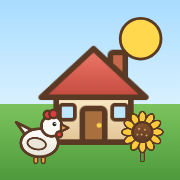
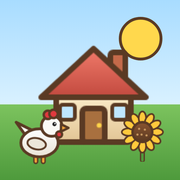
Иконки для iPad: отдельные размеры 152/167 и сброс кэша иконок
Claude-Session: https://claude.ai/code/session_01R1gfs5sStHDwcmxpvg4hZD

diff --git a/index.html b/index.html
@@ -7,7 +7,11 @@
 <title>Солнечная ферма</title>
 <!-- приложение на экране «Домой» (когда игра открыта как отдельный сайт) -->
 <link rel="manifest" href="manifest.json">
-<link rel="apple-touch-icon" href="apple-touch-icon.png">
+<link rel="apple-touch-icon" href="apple-touch-icon.png?v=2">
+<link rel="apple-touch-icon" sizes="120x120" href="apple-touch-icon-120.png?v=2">
+<link rel="apple-touch-icon" sizes="152x152" href="apple-touch-icon-152.png?v=2">
+<link rel="apple-touch-icon" sizes="167x167" href="apple-touch-icon-167.png?v=2">
+<link rel="apple-touch-icon" sizes="180x180" href="apple-touch-icon-180.png?v=2">
 <link rel="icon" type="image/png" href="icon-192.png">
 <meta name="apple-mobile-web-app-capable" content="yes">
 <meta name="mobile-web-app-capable" content="yes">
@@ -499,7 +503,7 @@ function save() {
 // копия в браузере уступает облачной. Пока сверка не прошла, в облако НИЧЕГО не пишем.
 const CLOUD = { db: null, uid: null, ready: false, dirty: false, busy: false, state: 'wait', cache: {} };
 const APP_URL = 'https://xsarion-source.github.io/game-fmly-testl-/';   // игра как отдельный сайт / приложение на экране «Домой»
-const BUILD = '2026-11-15.2';   // версия игры: приложение сверяет её с сайтом и обновляется само
+const BUILD = '2026-11-15.3';   // версия игры: приложение сверяет её с сайтом и обновляется само
 const EMBED = (() => { try { return window.top !== window; } catch { return true; } })();   // внутри claude.ai — встроенное окно
 if (!EMBED) try { navigator.storage?.persist?.(); } catch {}   // отдельный сайт / приложение: просим не стирать
 const progress = o => o ? (o.day || 0) * 1e7 + (o.life?.earned || 0) : -1;
